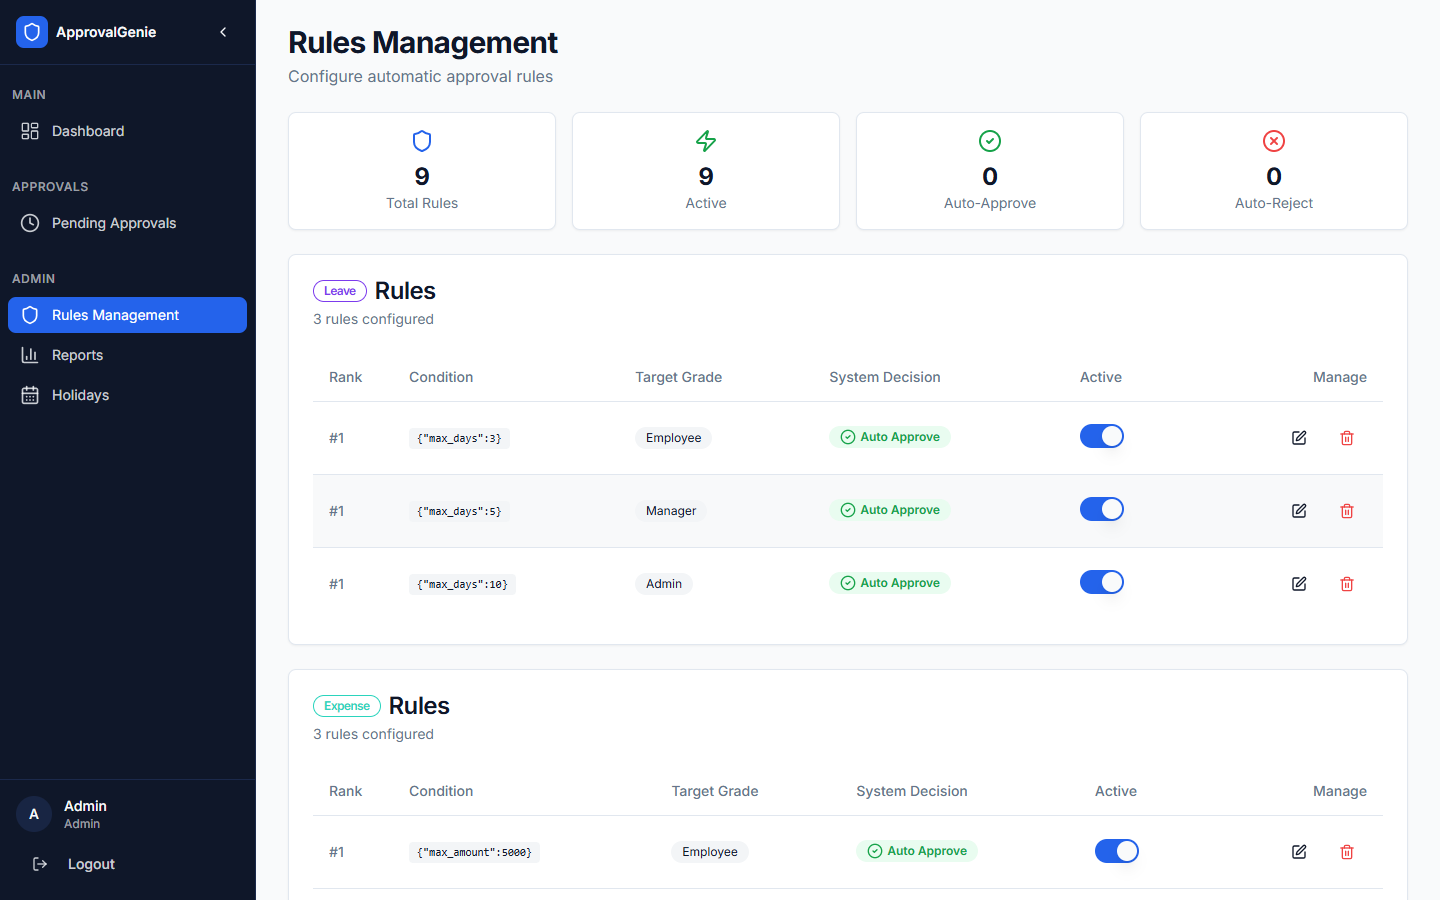
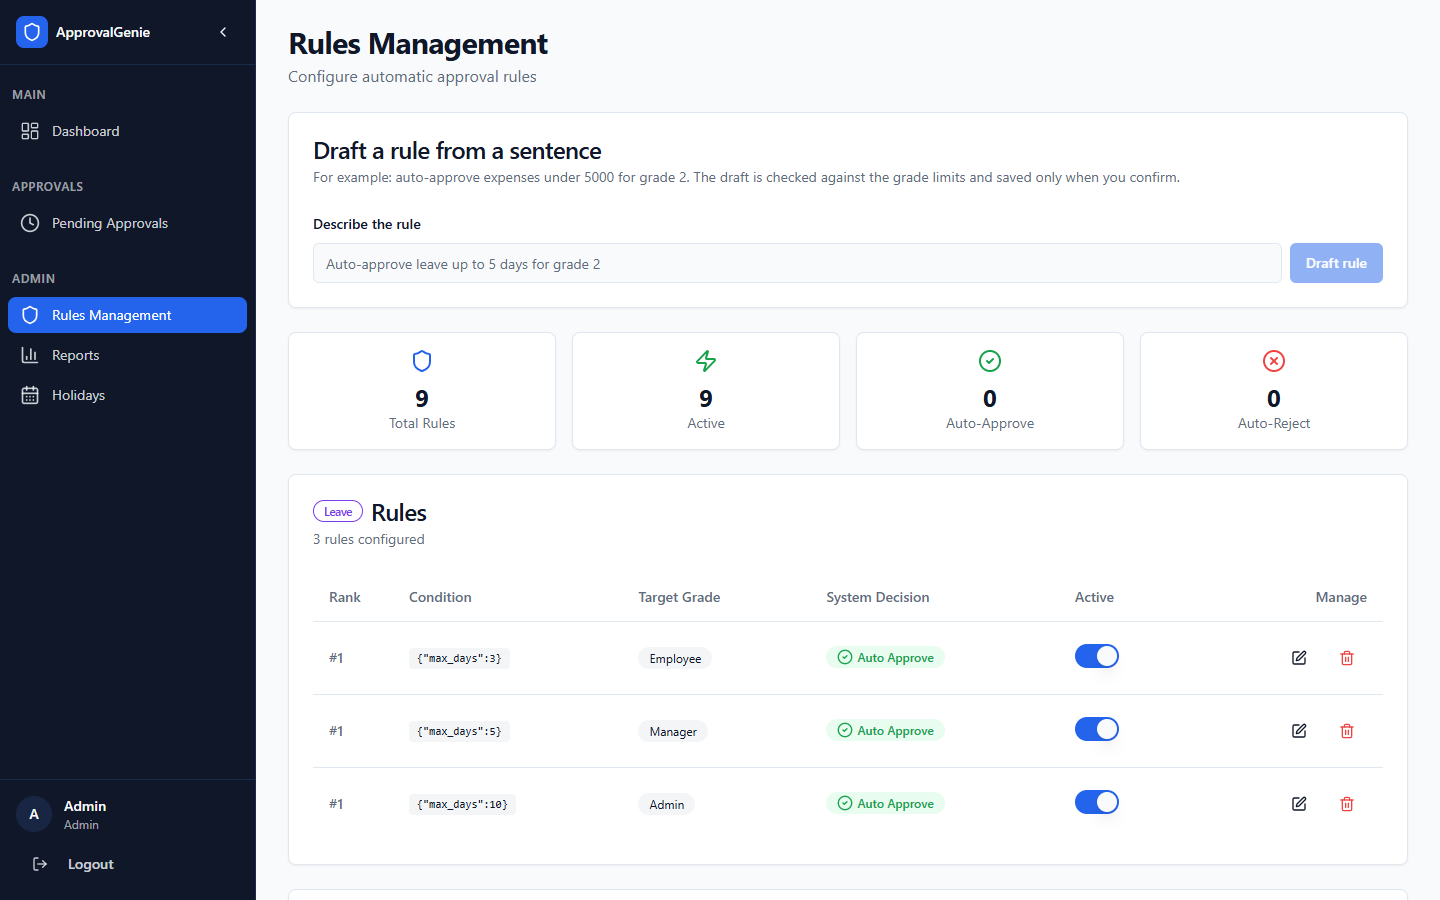
docs: README shows rule drafting with new screenshots, measured result and its limits (#7)

diff --git a/README.md b/README.md
@@ -36,7 +36,7 @@
   </a>
 </p>
 
-<p align="center"><sub>Last updated: 2026-10-15 &middot; Live in production on free tiers (Vercel and Neon)</sub></p>
+<p align="center"><sub>Last updated: 2026-11-09 &middot; Live in production on free tiers (Vercel and Neon)</sub></p>
 
 ---
 
@@ -97,7 +97,10 @@ whatever a visitor changes with the admin account is undone. You can also sign u
   </tr>
   <tr>
     <td width="50%"><img src="docs/images/pending-approvals.png" alt="Manager's queue of requests awaiting review"><p align="center"><sub>Manager: requests the rules sent for review</sub></p></td>
-    <td width="50%"><img src="docs/images/admin-rules.png" alt="Admin rules management: one rule per request type and grade"><p align="center"><sub>Admin: one rule per request type and grade</sub></p></td>
+    <td width="50%"><img src="docs/images/admin-rules.png" alt="Admin rules management with the rule drafting box above the rules"><p align="center"><sub>Admin: one rule per request type and grade, with the drafting box on top</sub></p></td>
+  </tr>
+  <tr>
+    <td colspan="2"><img src="docs/images/admin-rule-draft.png" alt="A drafted rule shown as a before and after, with Confirm and save and Discard buttons"><p align="center"><sub>Admin: a sentence becomes a draft (expense limit for grade 2, 10000 to 8000) that is saved only on Confirm</sub></p></td>
   </tr>
 </table>
 
@@ -358,6 +361,9 @@ runs the nightly job in-process.
 
 **Known limitations**
 
+- Rule drafting scored 49 of 50 on a 50-sentence set written by one author (2026-11-09, prompt v2); that
+  shows the approach works, not a production accuracy figure. It uses a free model tier with a daily cap,
+  so it can answer "limit reached" on a busy day.
 - Requests made before 2026-10-22 keep the calendar-day count they were applied with.
 - Lighthouse and accessibility checks cover the sign-in page only; the pages behind login have not been audited.
 - The first request after a quiet period waits for a function cold start.
